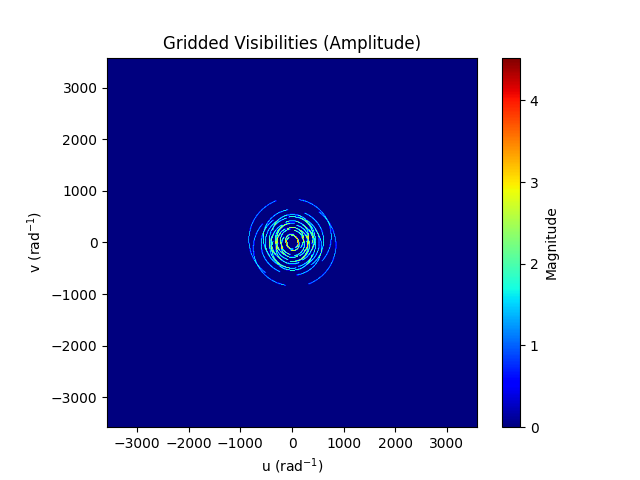
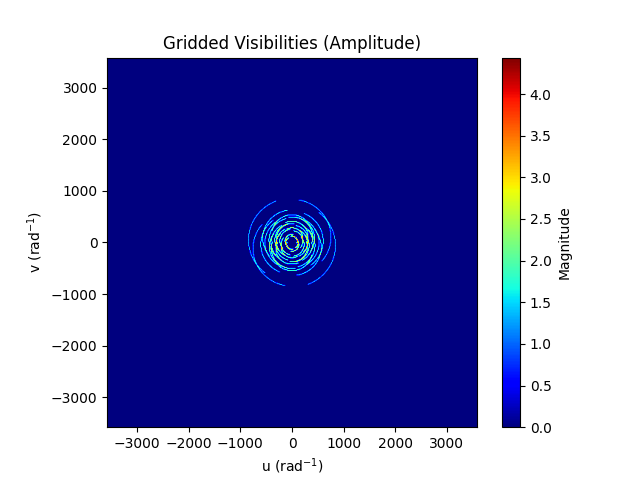
update

diff --git a/assignment2/PartB/simvis.py b/assignment2/PartB/simvis.py
@@ -100,7 +100,7 @@ class SimVis:
         scaled_uv[:, 1] /= (2 * self.v_max / self.Ny)
         scaled_uv[:, 0] += self.Nx / 2
         scaled_uv[:, 1] += self.Ny / 2
-        return np.round(scaled_uv).astype(int)
+        return scaled_uv.astype(int)
 
     def _get_xyz(self, baseline):
         L = self.config["lat"]
